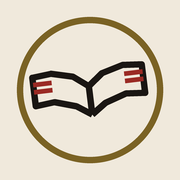
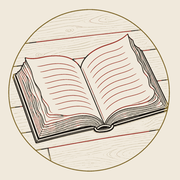
Publish 441 books, built 2026-08-28

diff --git a/app.css b/app.css
@@ -1136,26 +1136,34 @@ body { overflow-x: clip; }
 }
 .wordmark-text { overflow: hidden; text-overflow: ellipsis; white-space: nowrap; }
 
-/* Sized in em so it tracks the heading rather than being set against it. */
-.mark { display: block; flex: 0 0 auto; line-height: 0; }
-.mark svg { width: 1.6em; height: 1.6em; display: block; }
+/* The mark is the drawn illustration, recoloured from the tokens: circle in
+   brass, book in ink, the ruled page lines carrying the red note, the table
+   grain a faint brass. Sized in em so it tracks the heading.
 
-/* Three tokens, each doing the job it does everywhere else. The circle is a
-   rule, and rules are brass. The book is ink. The ruffled page edges take the
-   single red note, which is the only ornament the system allows itself. */
-.m-rule { stroke: var(--brass); }
-.m-ink { stroke: var(--ink); }
-.m-edge { stroke: var(--accent); }
+   It is a raster because it is a drawing rather than a diagram, served at 128px
+   for a mark shown at about 30, so it stays sharp at 3x. The favicon is still
+   the simplified SVG: at 16px this illustration is a grey blob, and a tab icon
+   that cannot be told apart from any other tab icon is not doing its job. */
+.mark {
+  display: block; flex: 0 0 auto;
+  width: 1.7em; height: 1.7em;
+  background: url('icons/mark-light.png') center / contain no-repeat;
+}
+:root[data-theme="dark"] .mark { background-image: url('icons/mark-dark.png'); }
+@media (prefers-color-scheme: dark) {
+  :root:not([data-theme="light"]) .mark { background-image: url('icons/mark-dark.png'); }
+}
 
 .topbar.is-compact .masthead h1 { font-size: .9375rem; letter-spacing: .14em; border-top-width: 2px; }
 
 @media (max-width: 760px) {
   /* Fifteen letterspaced caps, a mark and four touch targets on 375px. The
      tracking gives way before the name does: truncating a masthead to
-     "CONSTANT RE..." is worse than setting it tight. */
-  .masthead h1 { font-size: .6875rem; letter-spacing: .07em; gap: .4em; }
-  .mark svg { width: 1.5em; height: 1.5em; }
-  .topbar.is-compact .masthead h1 { font-size: .625rem; letter-spacing: .05em; }
+     "CONSTANT RE..." is worse than setting it tight. The drawn mark is wider
+     than the diagram it replaced, so it gives a little here too. */
+  .masthead h1 { font-size: .6875rem; letter-spacing: .045em; gap: .32em; }
+  .mark { width: 1.45em; height: 1.45em; }
+  .topbar.is-compact .masthead h1 { font-size: .625rem; letter-spacing: .03em; }
 }
 
 @media (max-width: 359px) {

diff --git a/index.html b/index.html
@@ -31,7 +31,7 @@
 <div class="topbar" id="topbar">
 <header class="masthead">
   <div class="wrap masthead-row">
-    <h1 class="wordmark"><span class="mark" aria-hidden="true"><svg xmlns="http://www.w3.org/2000/svg" viewBox="0 0 32 32" class="mark-svg"><g fill="none" stroke-linecap="round" stroke-linejoin="round"><circle cx="16" cy="16" r="13" class="m-rule" stroke-width="1.15"/><g transform="rotate(-7 16 17)"><path d="M16 20.4C13 18.2 9.6 17.4 6.2 17.7l0-5.1C9.6 12.3 13 13.1 16 15.3z" class="m-ink" stroke-width="1.15"/><path d="M16 20.4c3-2.2 6.4-3 9.8-2.7l0-5.1C22.4 12.3 19 13.1 16 15.3z" class="m-ink" stroke-width="1.15"/><path d="M16 15.3v5.1" class="m-ink" stroke-width="1.15"/><path d="M6.2 15.2c1.1-.2 2.2-.2 3.3 0M6.2 13.9c1.1-.2 2.2-.2 3.3 0" class="m-edge" stroke-width=".85"/><path d="M25.8 15.2c-1.1-.2-2.2-.2-3.3 0M25.8 13.9c-1.1-.2-2.2-.2-3.3 0" class="m-edge" stroke-width=".85"/></g></g></svg></span><span class="wordmark-text">Constant Reader</span></h1>
+    <h1 class="wordmark"><span class="mark" aria-hidden="true"></span><span class="wordmark-text">Constant Reader</span></h1>
     <div class="toolrow">
       <button class="btn tool" id="search-toggle" aria-label="Search" aria-expanded="false" aria-controls="panel-search"><svg viewBox="0 0 16 16" width="15" height="15" aria-hidden="true" fill="none" stroke="currentColor" stroke-width="1.6"><circle cx="7" cy="7" r="4.4"/><path d="M10.4 10.4 14 14" stroke-linecap="round"/></svg><span class="tool-dot" hidden aria-hidden="true"></span></button>
       <button class="btn tool" id="order-toggle" aria-label="Order" aria-expanded="false" aria-controls="panel-order"><svg viewBox="0 0 16 16" width="15" height="15" aria-hidden="true" fill="none" stroke="currentColor" stroke-width="1.6"><path d="M2 4.5h9M2 8h6M2 11.5h3" stroke-linecap="round"/><path d="M12.5 5.5v7M10.5 10.5l2 2 2-2" stroke-linecap="round" stroke-linejoin="round"/></svg><span class="tool-dot" hidden aria-hidden="true"></span></button>
